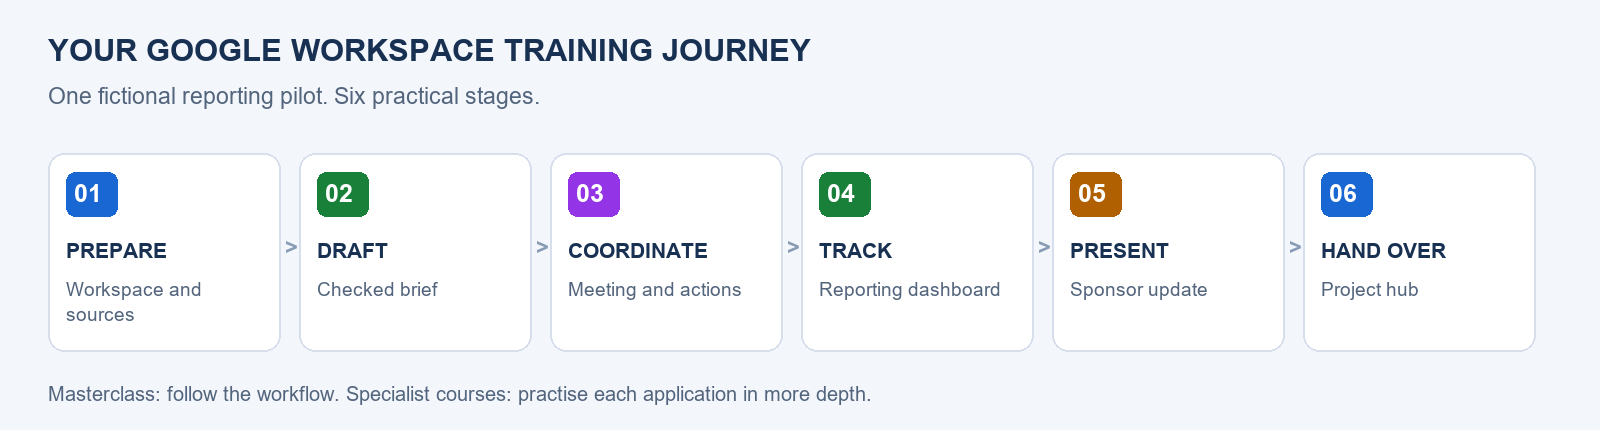
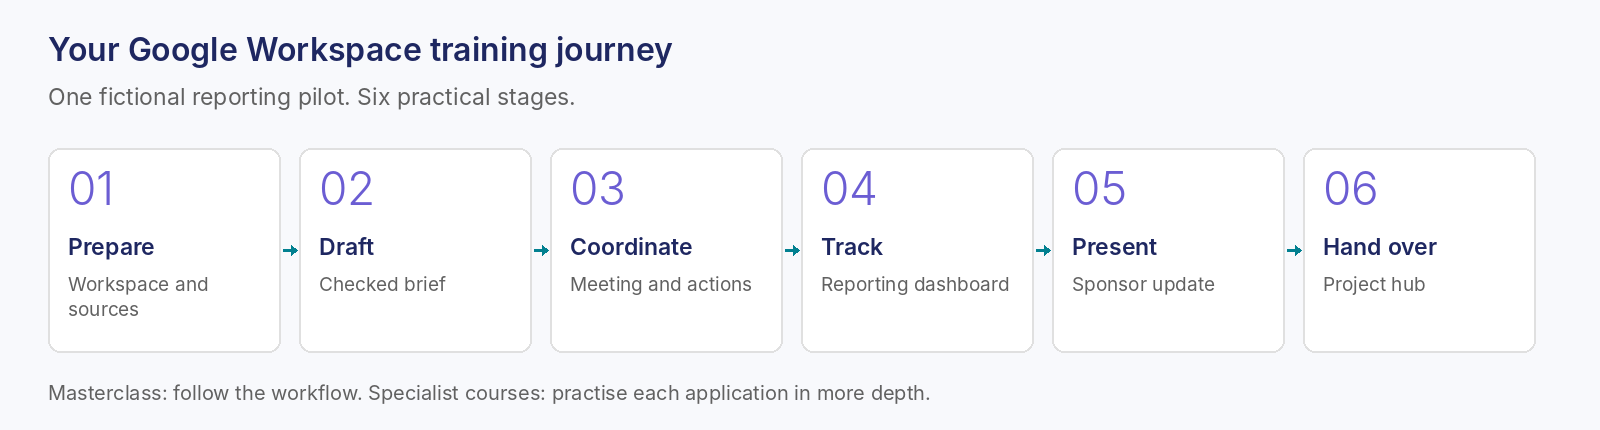
Apply the Asraf JS brand to the participant site
Follows training-book-kit BRAND.md: logo and favicon from brand/logo.png,
navy headings, teal links, purple accents, Segoe UI with system
fallbacks, a teal-cloud sidebar in light mode and a dark palette for
dark mode. Removes the four-colour stripe (BRAND.md rules out edge bars)
and hides the draft badge on narrow phones so the top bar fits.
Re-renders the program flow banner in brand colours with a sentence-case
title and plain purple numerals. Escapes the README footer pipe and
uses the brand sign-off line. Book palettes are unchanged.

Claude-Session: https://claude.ai/code/session_018iUBQvyhy69FsP24n1FzWf

diff --git a/assets/site.css b/assets/site.css
@@ -1,5 +1,18 @@
-:root{--bg:#fff;--text-dark:#172b4d;--text-mid:#3f4f64;--text-muted:#67758a;--border:#dce3ec;--teal:#174ea6;--teal-light:#edf3ff;--sidebar:#f7f9fc}
-*{box-sizing:border-box}body{margin:0;font-family:Arial,Helvetica,sans-serif;font-size:16px;line-height:1.65;color:var(--text-dark);background:var(--bg)}a{color:var(--teal);text-underline-offset:3px}a:hover{color:#103a7b}button{font:inherit;cursor:pointer}.brandbar{height:5px;background:linear-gradient(to right,#4285f4 0 25%,#ea4335 25% 50%,#fbbc05 50% 75%,#34a853 75%)}.topbar{position:sticky;top:0;z-index:5;background:white;border-bottom:1px solid var(--border)}.top-inner{padding:14px 28px;display:flex;align-items:center;gap:18px}.brand{font-weight:700;text-decoration:none;font-size:19px;color:var(--text-dark)}.edition{font-size:12px;padding:3px 9px;border:1px solid #d4a12f;background:#fff9e7;border-radius:4px;color:#714c00;margin-left:auto}.menu-toggle{display:none;background:#fff;border:1px solid var(--border);border-radius:4px;padding:5px 10px}.layout{display:grid;grid-template-columns:300px minmax(0,1fr);max-width:1500px;margin:auto}.sidebar{background:var(--sidebar);border-right:1px solid var(--border);padding:26px 20px;position:sticky;top:64px;align-self:start;height:calc(100vh - 64px);overflow:auto}.sidebar h2{font-size:11px;letter-spacing:.1em;text-transform:uppercase;color:var(--text-muted);margin:10px 8px}.course-link{display:block;text-decoration:none;font-size:13px;line-height:1.4;padding:9px;border-radius:5px;color:var(--text-mid)}.course-link.active{background:#e8effb;color:#174ea6;font-weight:bold}.sidebar-nav{border-top:1px solid var(--border);margin-top:20px;padding-top:15px}.nav-item{display:flex;gap:10px;text-decoration:none;font-size:13px;line-height:1.45;padding:9px 8px;border-radius:5px}.nav-item[aria-current=page]{background:#e8effb;font-weight:bold}.nav-number{color:var(--text-muted);font-size:12px;min-width:18px}.nav-hint{font-size:13px;padding:8px;color:var(--text-muted)}main{min-width:0;padding:40px 50px 64px}.main-inner{max-width:960px;margin:auto}.breadcrumb{font-size:12px;color:var(--text-muted);margin:0 0 18px}h1,h2,h3{line-height:1.22;color:#142b48}h1{font-size:34px;margin:0 0 24px;letter-spacing:-.6px}h2{font-size:23px;margin:38px 0 16px}h3{font-size:19px;margin-top:28px}p{margin:0 0 17px}li{margin:8px 0}table{border-collapse:collapse;display:block;max-width:100%;overflow:auto;font-size:14px;margin:22px 0 28px}th,td{border:1px solid var(--border);padding:11px 13px;vertical-align:top;text-align:left}th{background:#edf2fa;font-weight:700;white-space:normal}tr:nth-child(even) td{background:#fafbfd}blockquote{margin:20px 0;padding:8px 18px;border-left:3px solid #8da8d4;background:#f5f8fd;color:var(--text-mid)}blockquote p:last-child{margin-bottom:0}pre{background:#f3f5f8;border:1px solid var(--border);border-radius:6px;padding:35px 18px 18px;white-space:pre-wrap;overflow-wrap:anywhere;font:14px/1.6 Consolas,monospace;position:relative}code{font-family:Consolas,monospace;font-size:.9em;background:#eef2f7;padding:2px 4px;border-radius:3px}pre code{background:transparent;padding:0}.copy-button{position:absolute;top:5px;right:7px;font:12px Arial;border:1px solid #ccd7e5;background:white;padding:4px 9px;border-radius:4px}.copy-status{min-height:20px;font-size:12px;color:var(--text-muted)}img{max-width:100%;height:auto;border-radius:4px}img+em,p:has(>em:only-child){font-size:13px;color:var(--text-muted)}details{margin:20px 0;border:1px solid var(--border);padding:12px 16px;border-radius:5px}summary{cursor:pointer;font-weight:bold}details[open] summary{margin-bottom:12px}footer{font-size:12px;color:var(--text-muted);margin-top:50px;border-top:1px solid var(--border);padding-top:20px}.skip-link{position:absolute;left:-9999px}.skip-link:focus{left:10px;top:10px;background:white;padding:12px;z-index:10}:focus-visible{outline:3px solid #fbbc05;outline-offset:3px}
+/* Colours follow training-book-kit BRAND.md: navy headings, teal links, purple accents,
+   a teal-cloud sidebar in light mode and a dark sidebar in dark mode. */
+:root{--navy:#1E2761;--teal:#028090;--teal-hover:#027080;--teal-light:#E8F5F7;--purple:#6B5DD3;--purple-light:#F1EFFF;--text-dark:#1A1A2E;--text-mid:#3F4659;--text-muted:#616161;--bg:#FFFFFF;--bg-soft:#F8F9FC;--panel:#F5F5F5;--border:#E0E0E0;--code-bg:#F5F5F5;--table-even:#F8F9FC;--sidebar:#F1F7F8;--sidebar-border:#DCEAEC;--sidebar-hover:#E3F0F2;--sidebar-active:#D6ECEE;--sidebar-active-text:#027080;--sidebar-text:#34405C;--sidebar-muted:#76869A}
+@media(prefers-color-scheme:dark){:root{--navy:#DDE6FF;--teal:#4DD4E3;--teal-hover:#8BE4EE;--teal-light:#12343A;--purple:#A99CFF;--purple-light:#2A2548;--text-dark:#F3F4F6;--text-mid:#CBD5E1;--text-muted:#94A3B8;--bg:#0B1020;--bg-soft:#111827;--panel:#151E2E;--border:#2A3344;--code-bg:#151E2E;--table-even:#111827;--sidebar:#111827;--sidebar-border:#2A3344;--sidebar-hover:rgba(255,255,255,.06);--sidebar-active:rgba(107,93,211,.28);--sidebar-active-text:#FFFFFF;--sidebar-text:#CBD5E1;--sidebar-muted:#94A3B8}}
+*{box-sizing:border-box}body{margin:0;font-family:'Segoe UI',-apple-system,BlinkMacSystemFont,Roboto,Helvetica,Arial,sans-serif;font-size:16px;line-height:1.65;color:var(--text-dark);background:var(--bg)}a{color:var(--teal);text-underline-offset:3px}a:hover{color:var(--teal-hover)}button{font:inherit;cursor:pointer}
+.topbar{position:sticky;top:0;z-index:5;background:var(--bg);border-bottom:1px solid var(--border)}.top-inner{padding:12px 28px;display:flex;align-items:center;gap:14px}.brand{display:flex;align-items:center;gap:10px;font-weight:600;text-decoration:none;font-size:18px;color:var(--navy)}.brand img{width:32px;height:32px;border-radius:7px;flex-shrink:0}.edition{font-size:12px;padding:3px 9px;border:1px solid var(--purple);background:var(--purple-light);border-radius:4px;color:var(--purple);margin-left:auto}.menu-toggle{display:none;background:var(--bg);color:var(--text-dark);border:1px solid var(--border);border-radius:4px;padding:5px 10px}
+.layout{display:grid;grid-template-columns:300px minmax(0,1fr);max-width:1500px;margin:auto}.sidebar{background:var(--sidebar);border-right:1px solid var(--sidebar-border);padding:26px 20px;position:sticky;top:57px;align-self:start;height:calc(100vh - 57px);overflow:auto}.sidebar h2{font-size:11px;letter-spacing:.1em;text-transform:uppercase;color:var(--sidebar-muted);margin:10px 8px}.course-link{display:block;text-decoration:none;font-size:13px;line-height:1.4;padding:9px;border-radius:6px;color:var(--sidebar-text)}.course-link:hover,.nav-item:hover{background:var(--sidebar-hover)}.course-link.active{background:var(--sidebar-active);color:var(--sidebar-active-text);font-weight:600}.sidebar-nav{border-top:1px solid var(--sidebar-border);margin-top:20px;padding-top:15px}.nav-item{display:flex;gap:10px;text-decoration:none;font-size:13px;line-height:1.45;padding:9px 8px;border-radius:6px;color:var(--sidebar-text)}.nav-item[aria-current=page]{background:var(--sidebar-active);color:var(--sidebar-active-text);font-weight:600}.nav-number{color:var(--sidebar-muted);font-size:12px;min-width:18px}.nav-item[aria-current=page] .nav-number{color:inherit}.nav-hint{font-size:13px;padding:8px;color:var(--sidebar-muted)}
+main{min-width:0;padding:40px 50px 64px}.main-inner{max-width:960px;margin:auto}.breadcrumb{font-size:12px;color:var(--text-muted);margin:0 0 18px}h1,h2,h3{line-height:1.22;color:var(--navy);font-weight:600}h1{font-size:34px;margin:0 0 24px;letter-spacing:-.6px}h2{font-size:23px;margin:38px 0 16px}h3{font-size:19px;margin-top:28px}p{margin:0 0 17px}li{margin:8px 0}hr{border:0;border-top:1px solid var(--border);margin:32px 0}
+table{border-collapse:collapse;display:block;max-width:100%;overflow:auto;font-size:14px;margin:22px 0 28px}th,td{border:1px solid var(--border);padding:11px 13px;vertical-align:top;text-align:left}th{background:var(--panel);color:var(--navy);font-weight:600;white-space:normal}tr:nth-child(even) td{background:var(--table-even)}
+blockquote{margin:20px 0;padding:10px 18px;border-left:3px solid var(--teal);background:var(--teal-light);color:var(--text-mid);border-radius:0 6px 6px 0}blockquote p:last-child{margin-bottom:0}
+pre{background:var(--code-bg);border:1px solid var(--border);border-radius:6px;padding:35px 18px 18px;white-space:pre-wrap;overflow-wrap:anywhere;font:14px/1.6 'Cascadia Code',Consolas,monospace;position:relative}code{font-family:'Cascadia Code',Consolas,monospace;font-size:.9em;background:var(--code-bg);padding:2px 4px;border-radius:3px}pre code{background:transparent;padding:0}.copy-button{position:absolute;top:5px;right:7px;font:12px 'Segoe UI',sans-serif;border:1px solid var(--border);background:var(--bg);color:var(--teal);padding:4px 9px;border-radius:4px}.copy-button:hover{border-color:var(--teal)}.copy-status{min-height:20px;font-size:12px;color:var(--text-muted)}
+img{max-width:100%;height:auto;border-radius:6px}.main-inner p>img{box-shadow:0 4px 18px rgba(30,39,97,.10)}img+em,p:has(>em:only-child){font-size:13px;color:var(--text-muted)}
+details{margin:20px 0;border:1px solid var(--border);padding:12px 16px;border-radius:6px}summary{cursor:pointer;font-weight:600;color:var(--navy)}details[open] summary{margin-bottom:12px}
+footer{font-size:12px;color:var(--text-muted);margin-top:50px;border-top:1px solid var(--border);padding-top:20px}.skip-link{position:absolute;left:-9999px}.skip-link:focus{left:10px;top:10px;background:var(--bg);padding:12px;z-index:10}:focus-visible{outline:3px solid var(--purple);outline-offset:3px}
 @media(max-width:1000px){.layout{grid-template-columns:250px minmax(0,1fr)}main{padding:30px 28px}.sidebar{padding:20px 12px}h1{font-size:29px}}
-@media(max-width:760px){.layout{display:block}.sidebar{position:static;height:auto;border-right:0;border-bottom:1px solid var(--border);display:none}.sidebar.open{display:block}.menu-toggle{display:block}.top-inner{padding:10px 16px}.brand{font-size:16px}.edition{font-size:10px}main{padding:26px 18px}h1{font-size:27px}h2{font-size:21px}table{font-size:13px}}
-@media print{.sidebar,.topbar,.breadcrumb,.side-pop,.copy-button,.page-nav{display:none!important}.layout{display:block}main{padding:0}details{display:block}details>*{display:block!important}a{color:inherit}h2,h3{break-after:avoid}pre,tr,img{break-inside:avoid}}
+@media(max-width:760px){.layout{display:block}.sidebar{position:static;height:auto;border-right:0;border-bottom:1px solid var(--sidebar-border);display:none}.sidebar.open{display:block}.menu-toggle{display:block}.top-inner{padding:10px 16px}.brand{font-size:16px;white-space:nowrap;min-width:0}.brand img{width:28px;height:28px}.edition{font-size:10px}main{padding:26px 16px}h1{font-size:27px}h2{font-size:21px}table{font-size:13px}}
+@media(max-width:520px){.edition{display:none}}
+@media print{.sidebar,.topbar,.breadcrumb,.side-pop,.copy-button,.page-nav{display:none!important}.layout{display:block}main{padding:0}details{display:block}details>*{display:block!important}a{color:inherit}h2,h3{break-after:avoid}pre,tr,img{break-inside:avoid}.main-inner p>img{box-shadow:none}}

diff --git a/_layouts/default.html b/_layouts/default.html
@@ -1,11 +1,11 @@
 <!doctype html>
 <html lang="en-GB"><head><meta charset="utf-8"><meta name="viewport" content="width=device-width,initial-scale=1">
 <title>{{title}} | Google Workspace Training</title>
-<link rel="stylesheet" href="{{base}}/assets/site.css"><script defer src="{{base}}/assets/site.js"></script></head>
+<link rel="icon" type="image/png" href="{{base}}/logo.png"><link rel="stylesheet" href="{{base}}/assets/site.css"><script defer src="{{base}}/assets/site.js"></script></head>
 <body><a class="skip-link" href="#main">Skip to lesson</a>
-<header class="topbar"><div class="brandbar"></div><div class="top-inner"><button class="menu-toggle" aria-expanded="false" aria-controls="course-navigation">Courses</button><a class="brand" href="{{base}}/">Google Workspace Training</a><span class="edition">Review draft 0.4</span></div></header>
+<header class="topbar"><div class="top-inner"><button class="menu-toggle" aria-expanded="false" aria-controls="course-navigation">Courses</button><a class="brand" href="{{base}}/"><img src="{{base}}/logo.png" alt="Asraf JS">Google Workspace Training</a><span class="edition">Review draft 0.4</span></div></header>
 <div class="layout"><aside class="sidebar" id="course-navigation"><h2>Six courses · Seven days</h2>{{courseLinks}}<nav class="sidebar-nav" aria-label="Current course chapters"><h2>Chapters</h2>{{chapterNav}}</nav><p class="nav-hint"><a href="{{base}}/shared/sample-files/">Practice files</a><br><a href="{{base}}/planning/VALIDATION-STATUS.html">Validation status</a></p></aside>
-<main id="main"><div class="main-inner"><p class="breadcrumb">{{courseTitle}}</p>{{content}}<footer>Asraf Jaafar Sidik · Microsoft Certified Trainer<br>Fictional training material. Written drafts awaiting full lab validation.</footer></div></main></div>
+<main id="main"><div class="main-inner"><p class="breadcrumb">{{courseTitle}}</p>{{content}}<footer>Asraf Jaafar Sidik | Microsoft Certified Trainer<br>Fictional training material. Written drafts awaiting full lab validation.</footer></div></main></div>
 <!-- Image lightbox for course sites. Paste this whole block into _layouts/default.html,
      just before </body>. Click (or Enter on) any screenshot in .main-inner to open it
      in its own window, sized to the image, to put beside the work or on a second

diff --git a/_design/render-program-flow.py b/_design/render-program-flow.py
@@ -2,25 +2,36 @@ from pathlib import Path
 from PIL import Image, ImageDraw, ImageFont
 root=Path(__file__).resolve().parents[1]
 
-stages=[('01','PREPARE','Workspace and sources'),('02','DRAFT','Checked brief'),('03','COORDINATE','Meeting and actions'),('04','TRACK','Reporting dashboard'),('05','PRESENT','Sponsor update'),('06','HAND OVER','Project hub')]
-im=Image.new('RGB',(1600,430),'#f3f6fb');d=ImageDraw.Draw(im)
-def font(size,bold=False):
- return ImageFont.truetype('C:/Windows/Fonts/'+('arialbd.ttf' if bold else 'arial.ttf'),size)
-d.text((48,32),'YOUR GOOGLE WORKSPACE TRAINING JOURNEY',font=font(31,True),fill='#183153')
-d.text((48,83),'One fictional reporting pilot. Six practical stages.',font=font(23),fill='#53657d')
-colours=['#1967d2','#188038','#9334e6','#188038','#b06000','#1967d2']
+# Colours and type follow training-book-kit BRAND.md: navy titles, plain purple numerals,
+# white cards with thin grey rules on a near-white background, teal connectors.
+NAVY,PURPLE,TEAL,GREY,RULE,BG='#1E2761','#6B5DD3','#028090','#616161','#E0E0E0','#F8F9FC'
+stages=[('01','Prepare','Workspace and sources'),('02','Draft','Checked brief'),('03','Coordinate','Meeting and actions'),('04','Track','Reporting dashboard'),('05','Present','Sponsor update'),('06','Hand over','Project hub')]
+im=Image.new('RGB',(1600,430),BG);d=ImageDraw.Draw(im)
+
+# Segoe UI on Windows; Inter or DejaVu where Segoe UI isn't installed.
+FONTS={'regular':['C:/Windows/Fonts/segoeui.ttf','/usr/share/fonts/opentype/inter/Inter-Regular.otf','/usr/share/fonts/truetype/dejavu/DejaVuSans.ttf'],
+       'semibold':['C:/Windows/Fonts/seguisb.ttf','/usr/share/fonts/opentype/inter/Inter-SemiBold.otf','/usr/share/fonts/truetype/dejavu/DejaVuSans-Bold.ttf'],
+       'light':['C:/Windows/Fonts/segoeuil.ttf','/usr/share/fonts/opentype/inter/Inter-Light.otf','/usr/share/fonts/truetype/dejavu/DejaVuSans.ttf']}
+def font(size,weight='regular'):
+ for path in FONTS[weight]:
+  if Path(path).exists(): return ImageFont.truetype(path,size)
+ raise SystemExit('No usable font found for '+weight)
+
+d.text((48,30),'Your Google Workspace training journey',font=font(32,'semibold'),fill=NAVY)
+d.text((48,82),'One fictional reporting pilot. Six practical stages.',font=font(23),fill=GREY)
 for i,(num,title,desc) in enumerate(stages):
  x=48+i*251
- d.rounded_rectangle((x,153,x+232,351),radius=16,fill='white',outline='#d6dfeb',width=2)
- d.rounded_rectangle((x+18,172,x+69,216),radius=9,fill=colours[i])
- d.text((x+26,179),num,font=font(25,True),fill='white')
- d.text((x+18,238),title,font=font(21,True),fill='#183153')
+ d.rounded_rectangle((x,148,x+232,352),radius=12,fill='white',outline=RULE,width=2)
+ d.text((x+20,160),num,font=font(46,'light'),fill=PURPLE)
+ d.text((x+20,232),title,font=font(23,'semibold'),fill=NAVY)
  words=desc.split(); lines=[]; line=''
  for word in words:
-  if d.textlength((line+' '+word).strip(),font=font(19))>196: lines.append(line);line=word
+  if d.textlength((line+' '+word).strip(),font=font(19))>192: lines.append(line);line=word
   else: line=(line+' '+word).strip()
  lines.append(line)
- for j,l in enumerate(lines): d.text((x+18,278+j*25),l,font=font(19),fill='#53657d')
- if i<5:d.text((x+237,235),'>',font=font(22,True),fill='#879bb5')
-d.text((48,382),'Masterclass: follow the workflow. Specialist courses: practise each application in more depth.',font=font(20),fill='#53657d')
+ for j,l in enumerate(lines): d.text((x+20,272+j*25),l,font=font(19),fill=GREY)
+ if i<5:
+  # A short teal arrow in the gap between cards.
+  y=250; d.line((x+235,y,x+247,y),fill=TEAL,width=3); d.polygon([(x+249,y),(x+243,y-5),(x+243,y+5)],fill=TEAL)
+d.text((48,380),'Masterclass: follow the workflow. Specialist courses: practise each application in more depth.',font=font(20),fill=GREY)
 im.save(root/'program-flow.png',optimize=True)

diff --git a/CLAUDE.md b/CLAUDE.md
@@ -26,7 +26,7 @@ See planning/VALIDATION-STATUS.md for public validation state, and ignored _loca
 
 ## Docs Conventions Alignment
 
-The Google Docs course (02-google-docs) now follows the training-book-kit chapter skeleton: a `> **Prompts:**` callout, `**Estimated time:** NN minutes` (the planned split follows on the same line), a `---` rule before What You Will Learn, Independent Practice with an Evidence to Hand Over subsection, and an italic caption under every screenshot. Prompts pages are titled `NN - Title: Prompts` and use `## Part N: Name` headings, with Session/Grounding lines above Gemini prompts. Apply the same pattern to the other five courses once their screenshot branches are merged. Image file names keep the course prefix (`c02-...`) because six courses share chapter numbers; the site still uses its Google colours rather than the kit's BRAND.md palette.
+The Google Docs course (02-google-docs) now follows the training-book-kit chapter skeleton: a `> **Prompts:**` callout, `**Estimated time:** NN minutes` (the planned split follows on the same line), a `---` rule before What You Will Learn, Independent Practice with an Evidence to Hand Over subsection, and an italic caption under every screenshot. Prompts pages are titled `NN - Title: Prompts` and use `## Part N: Name` headings, with Session/Grounding lines above Gemini prompts. Apply the same pattern to the other five courses once their screenshot branches are merged. Image file names keep the course prefix (`c02-...`) because six courses share chapter numbers. The participant site follows the kit's BRAND.md: logo.png at the root (copied from training-book-kit/brand), navy/teal/purple tokens in assets/site.css with a dark-mode set, and a teal-cloud sidebar in light mode. The six review books keep their Google product palettes (assets/book-palette*.css), as BRAND.md allows for books. program-flow.png is rendered by _design/render-program-flow.py in the brand colours.
 
 ## Next Production Work
 

diff --git a/README.md b/README.md
@@ -67,6 +67,6 @@ Use an account approved by your trainer. Check the [access requirements](./plann
 
 During the course, ask your trainer. For sign-in, licenses or organisation restrictions, contact your organisation's Workspace administrator.
 
-*Last updated: October 2026 | Trainer: Asraf*
+*Last updated: October 2026 \| Trainer: Asraf*
 
 © Asraf Jaafar Sidik, Microsoft Certified Trainer. These materials are for course participants' personal use. Please do not redistribute or resell them.
